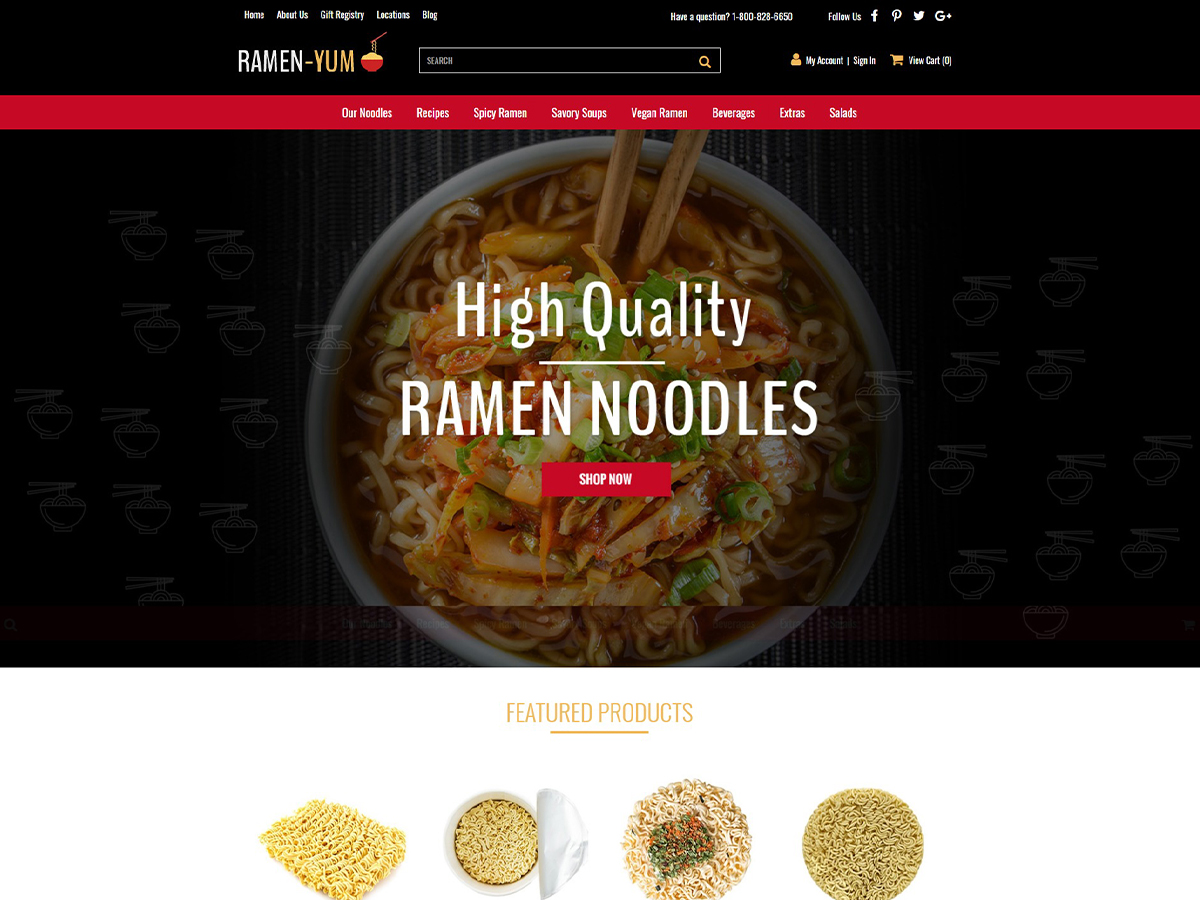
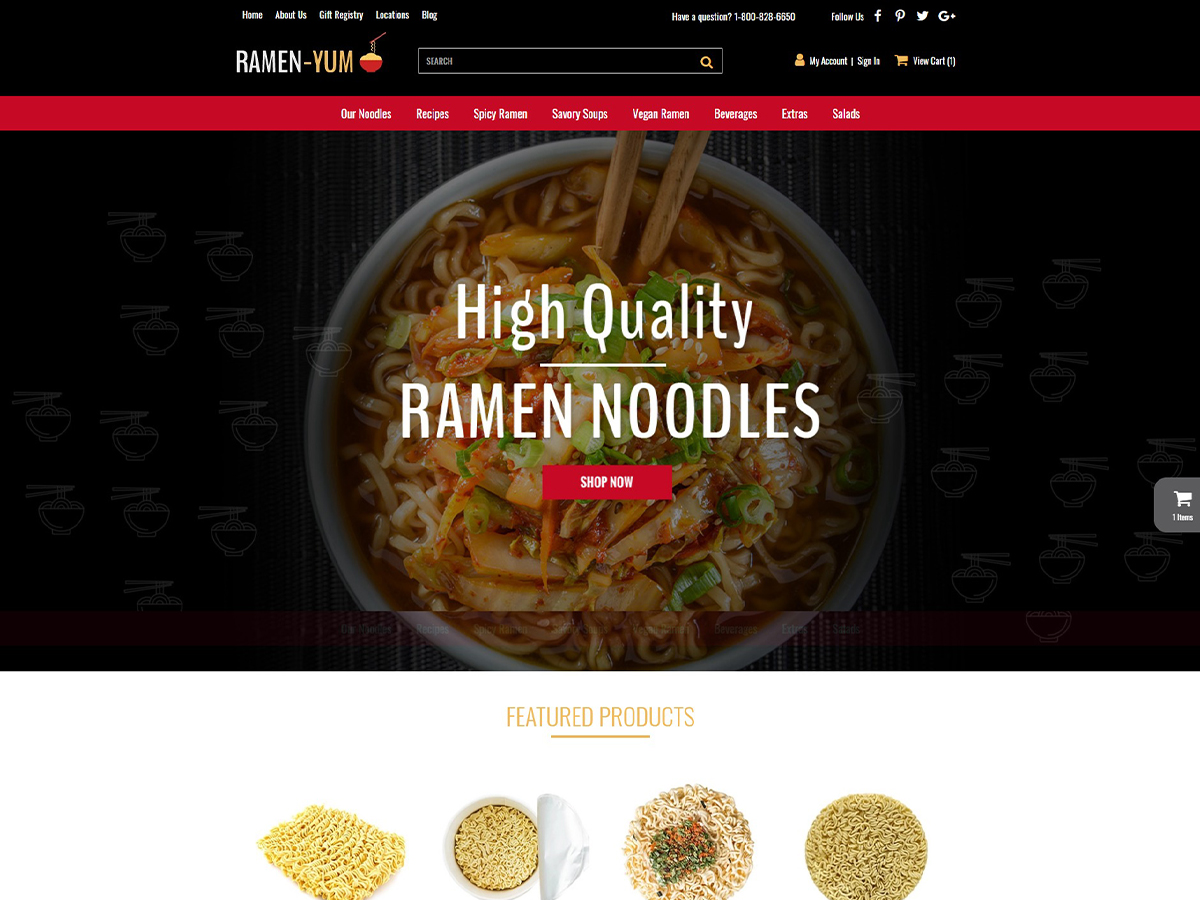
Updates

diff --git a/Ramen-core/frame.html b/Ramen-core/frame.html
@@ -146,12 +146,12 @@
 		</header>
 		<section id="caTnaV" class="categoriesNav navbar-wrapper hidden-xs">
 			
-			<a href="#" class="sticky-ads abs-right2" data-toggle="modal" data-target="#searchModal">
+			<!-- <a href="#" class="sticky-ads abs-right2" data-toggle="modal" data-target="#searchModal">
 				<span class="icon-search"></span>
-			</a>
-			<a href="/view_cart.asp" class="sticky-ads abs-right">
+			</a> -->
+			<!-- <a href="/view_cart.asp" class="sticky-ads abs-right">
 				<span class="icon-basket"></span>
-			</a>
+			</a> -->
 			
 			<div class="container">
 				<nav id="categories-outer" class="categories navbar-collapse collapse">

diff --git a/Ramen-core/css/default.css b/Ramen-core/css/default.css
@@ -503,6 +503,9 @@ body.home-page .header-navigation {
 .navbar-nav > li > .dropdown-menu.mega {
 }
 @media (max-width: 1199px) {
+    .product-item .status {
+        font-size: 11px !important;
+    }
 }
 
 #categories-outer .dropdown-menu > li {
